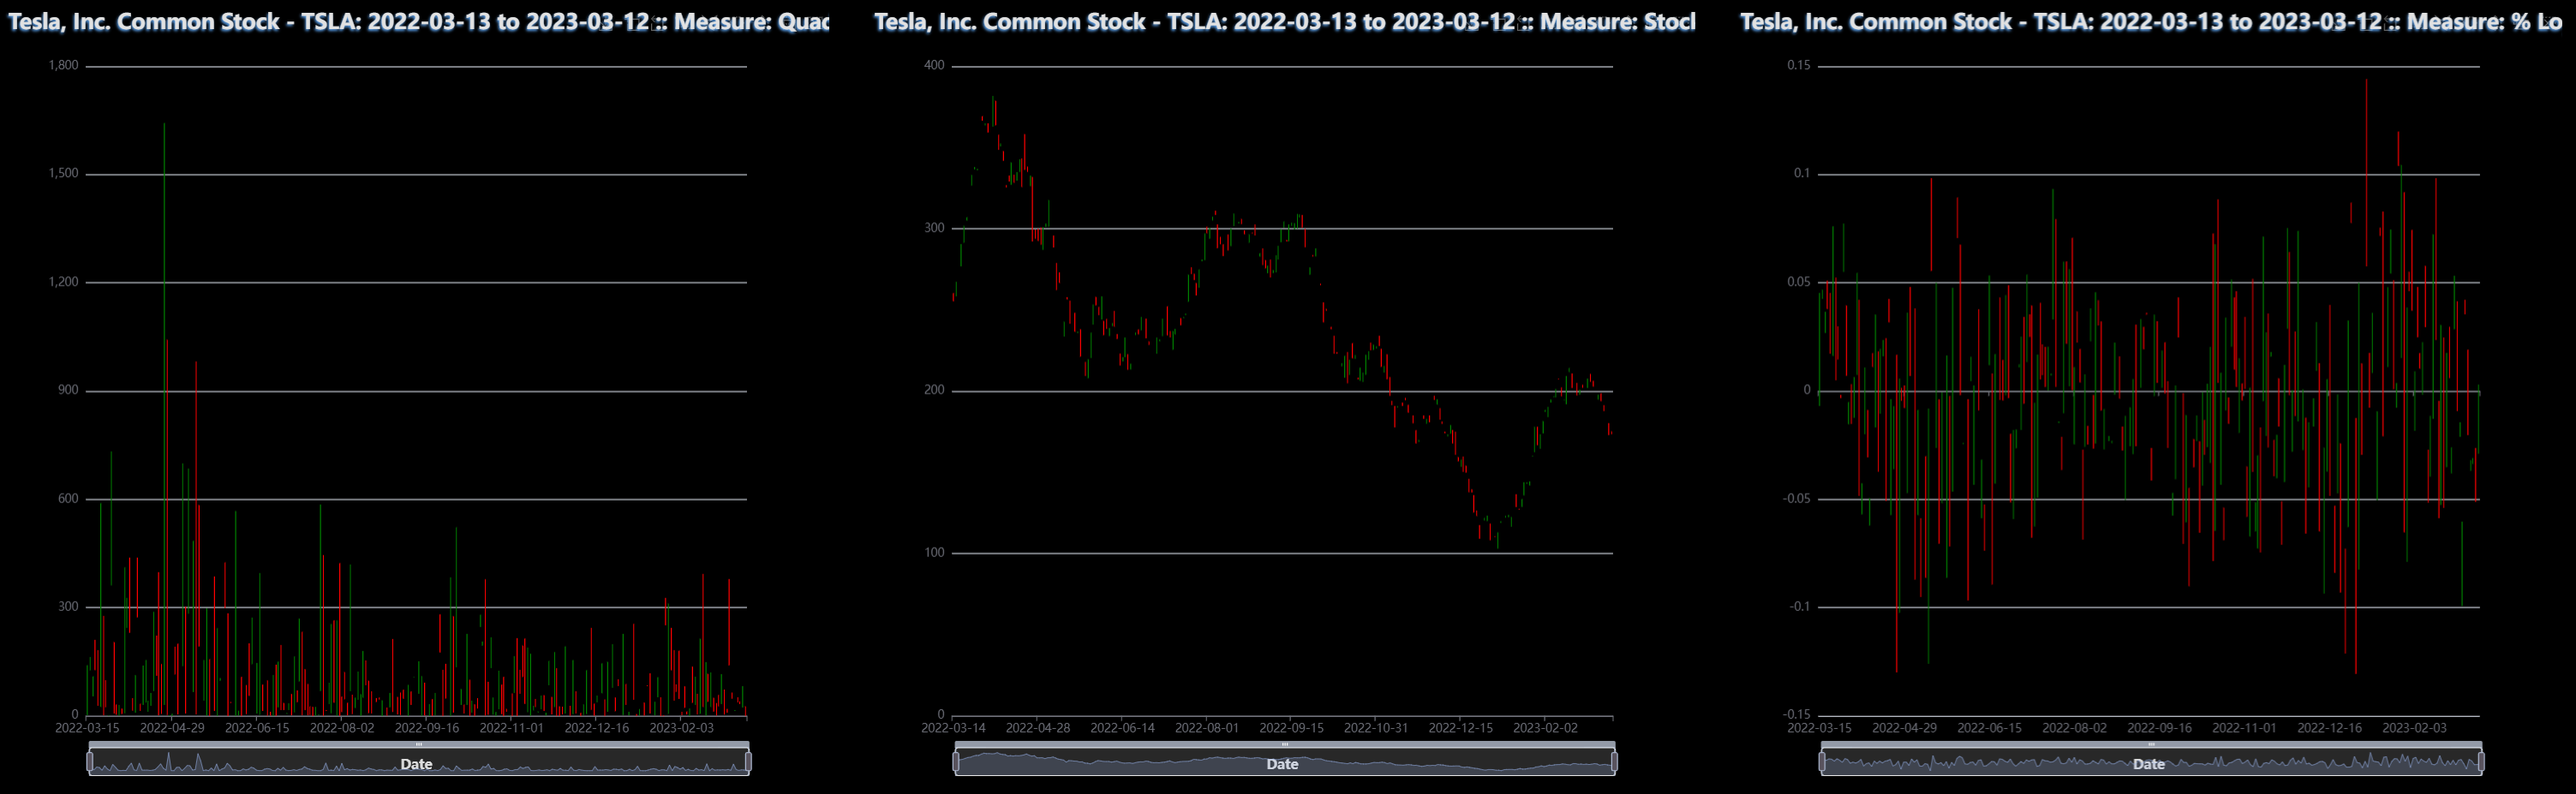
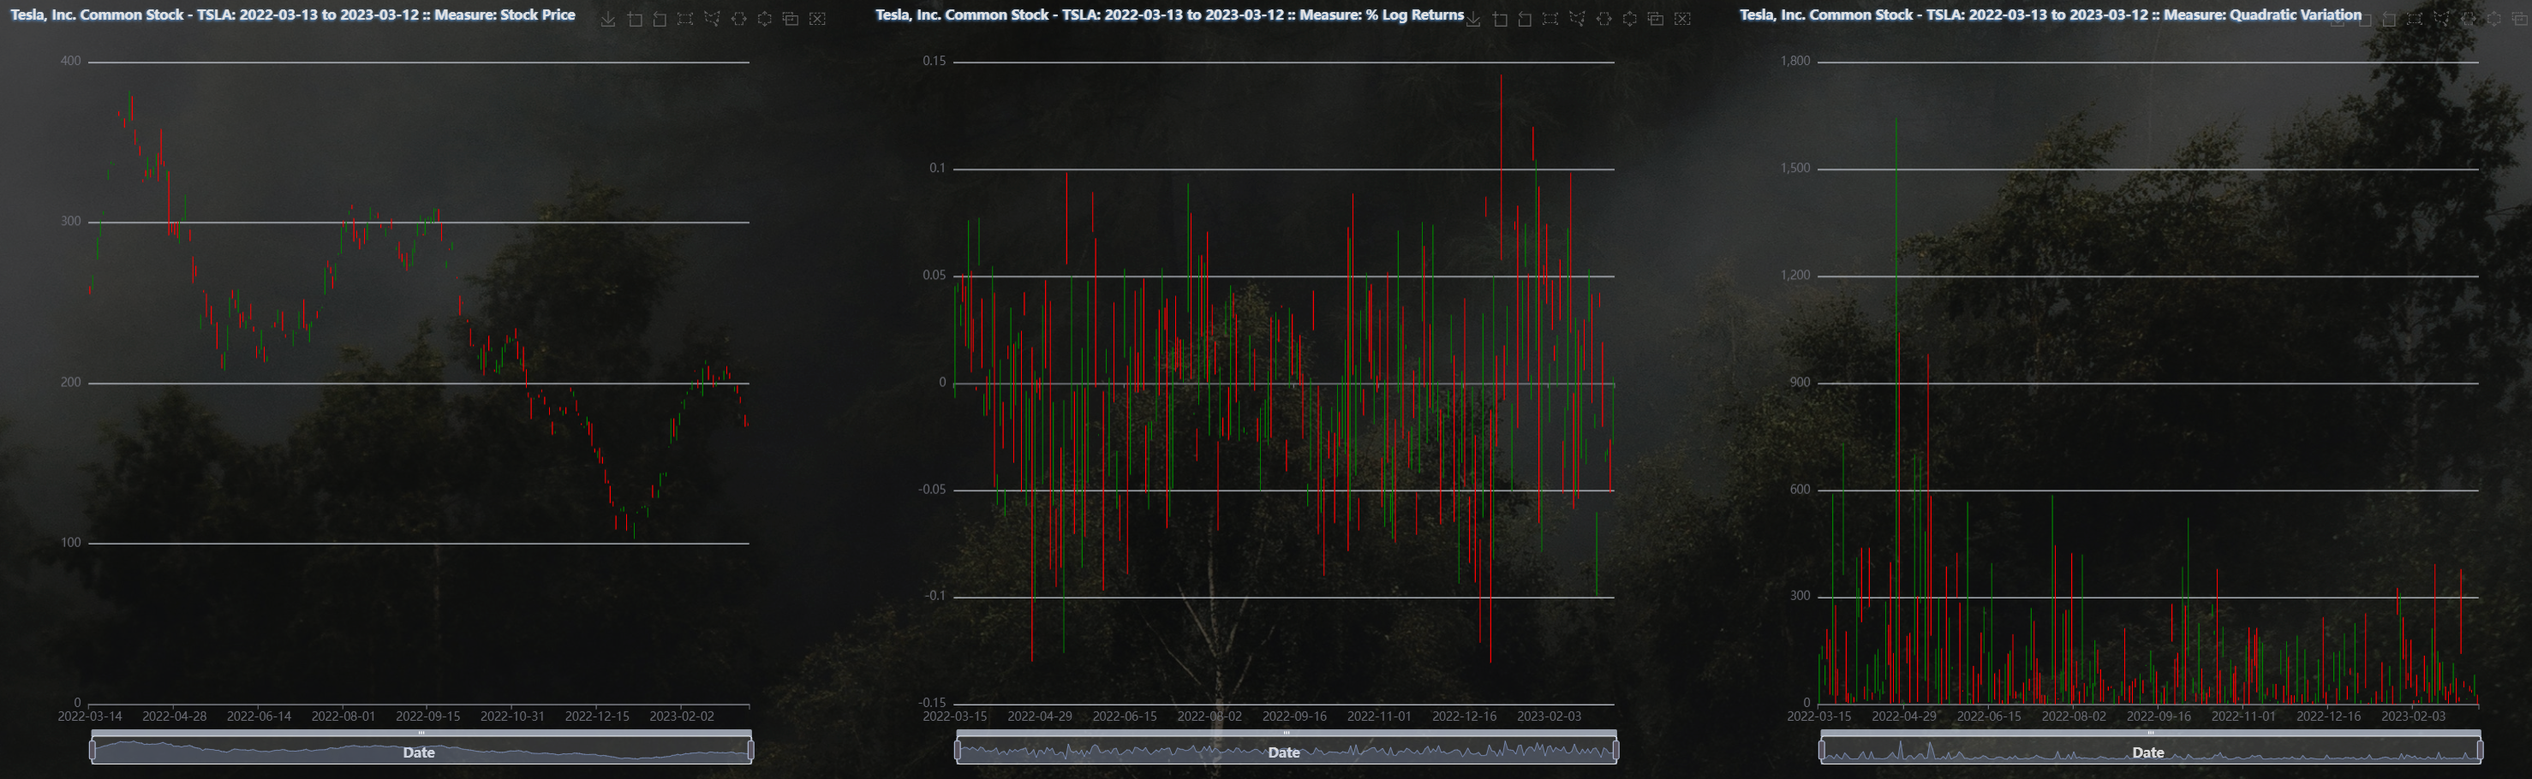
Updates

diff --git a/README.md b/README.md
@@ -49,7 +49,7 @@ Another giant bonus is that the user can either pre-aggregate their data and pas
 
 <img src="https://raw.githubusercontent.com/AdrianAntico/AutoPlots/master/inst/Bar3D_StackBar_Heatmap.PNG" align="center" width="800" />
 
-### Stocks: quadratic variation, stock price, % log returns
+### Stocks: Stock Price, % Log Returns (log(s1) - log(s0)), Quadratic Variation (% Log Returns)^2
 
 <img src="https://raw.githubusercontent.com/AdrianAntico/AutoPlots/master/inst/Stocks.PNG" align="center" width="800" />
 
